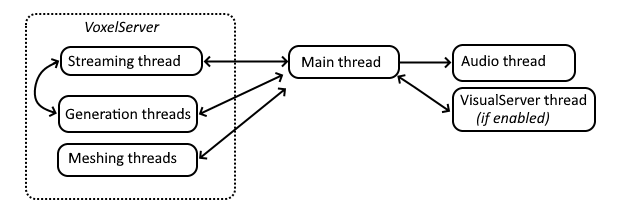
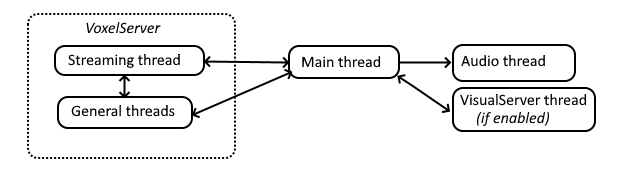
Update threads section

diff --git a/doc/source/module_development.md b/doc/source/module_development.md
@@ -67,13 +67,11 @@ No test framework is used at the moment, instead they just run by either printin
 Threads
 ---------
 
-The module uses several background thread pools to process voxels. The number of threads is currently hardcoded, but it is planned to make it detect CPU concurrency automatically, and expose maximum thread counts in Project Settings.
+The module uses several background thread pools to process voxels. The number of threads can be adjusted in Project Settings.
 
 ![Schema of threads](images/threads_schema.png)
 
-- A single streaming thread is handling files. If a block of voxels cannot be found, it can pass tasks to one of the generation threads.
-- One or more generation threads are used for procedural generation. They can pass tasks to the streaming thread if the option to save generated outputs is enabled.
-- One or more meshing threads are used to polygonize voxels into meshes.
+There are two pools of threads currently. One pool is actually just one thread dedicated to streaming (files I/O), and another pool uses more threads for every other type of task. This pool can be given many tasks and distributes them to all its threads. So the more threads are available, the quicker large amounts of tasks get done. Tasks are also sorted by priority, so for example updating a mesh near a player will run before generating a voxel block 300 meters away.
 
 Threads are managed in [VoxelServer](api/VoxelServer.md).
 
@@ -99,6 +97,7 @@ For the most part, use `clang-format` and follow Godot conventions.
 - Indent with tabs
 - Use Clang-format to automate most of these rules (the one included in Godot should do it)
 - Constructors and destructors go on top
+- Public API goes on top, private stuff goes below
 - Bindings go at the bottom. Private wrapper functions can be used to adapt to the script API and are prefixed with `_b_`.
 - Avoid long lines. Preferred ruler is 120 characters. Don't fit too many operations on the same line, use locals.
 
